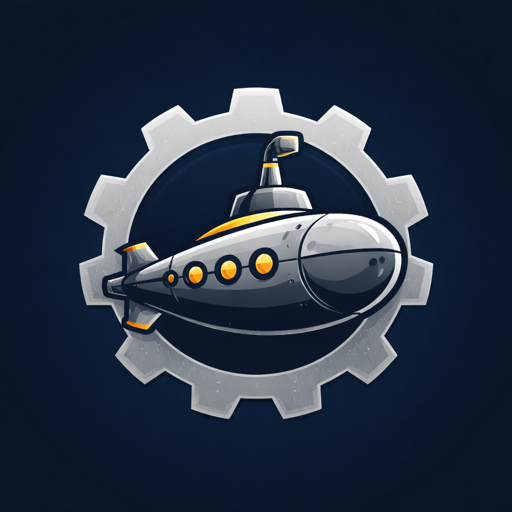
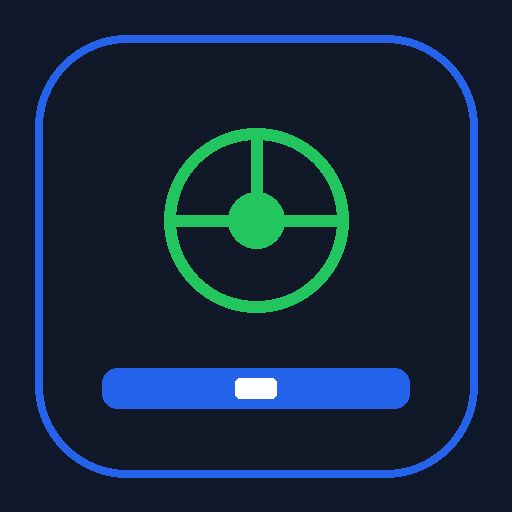
Add files via upload

diff --git a/app30_app.html b/app30_app.html
@@ -18,7 +18,7 @@
 
 <link href="https://fonts.googleapis.com/css2?family=Inter:wght@400;600;700;800&display=swap" rel="stylesheet">
 
-<title>MetaDriver v09</title>
+<title>MetaDriver v06</title>
 <script>
 // v57 - correção de duplicação ao minimizar/restaurar + proteção de rolagem
 (function(){
@@ -3050,20 +3050,6 @@ body[data-tema="amarelo-claro"] .quick-balance-panel{ background:#fff9d0; }
   border-radius:12px !important;
 }
 
-
-/* v09 - restaura botões Uber/99 no teclado flutuante */
-#quickBalancePanel .quick-balance-split{
-  display:grid !important;
-  grid-template-columns:1fr 1fr !important;
-  gap:8px !important;
-  margin-bottom:10px !important;
-}
-#quickBalancePanel .quick-balance-split-card{
-  display:block !important;
-  visibility:visible !important;
-  opacity:1 !important;
-}
-
 </style>
 
 <script id="auth-guard">
@@ -4228,7 +4214,7 @@ function mdBuildDiagnosticsObject(){
     const durableObj = mdSafeJsonParse(durableRaw);
     const diag = {
       generated_at: mdNowIso(),
-      app_version: 'MetaDriver v09',
+      app_version: 'MetaDriver v06',
       cloud_table: CLOUD_TABLE,
       device_id: mdEnsureDeviceId(),
       visibility_state: document.visibilityState,
@@ -6821,7 +6807,7 @@ function exportarRelatorioPDF(){
       <script>
         setTimeout(()=>window.print(), 250);
       <\/script>
-    <div class="version-debug-badge" id="versionDebugBadge">MetaDriver v09 · app</div>
+    <div class="version-debug-badge" id="versionDebugBadge">MetaDriver v06 · app</div>
 </body>
     </html>  `);
   w.document.close();

diff --git a/reset.html b/reset.html
@@ -6,7 +6,7 @@
 <meta http-equiv="Pragma" content="no-cache">
 <meta http-equiv="Expires" content="0">
 <meta name="viewport" content="width=device-width,initial-scale=1.0">
-<title>MetaDriver v08 · reset</title>
+<title>MetaDriver v06 · reset</title>
 <style>
 :root { color-scheme: dark; }
 * { box-sizing: border-box; }
@@ -279,6 +279,6 @@ button {
   boot();
 })();
 </script>
-<div class="version-debug-badge" id="versionDebugBadge">MetaDriver v08 · reset</div>
+<div class="version-debug-badge" id="versionDebugBadge">MetaDriver v06 · reset</div>
 </body>
 </html>